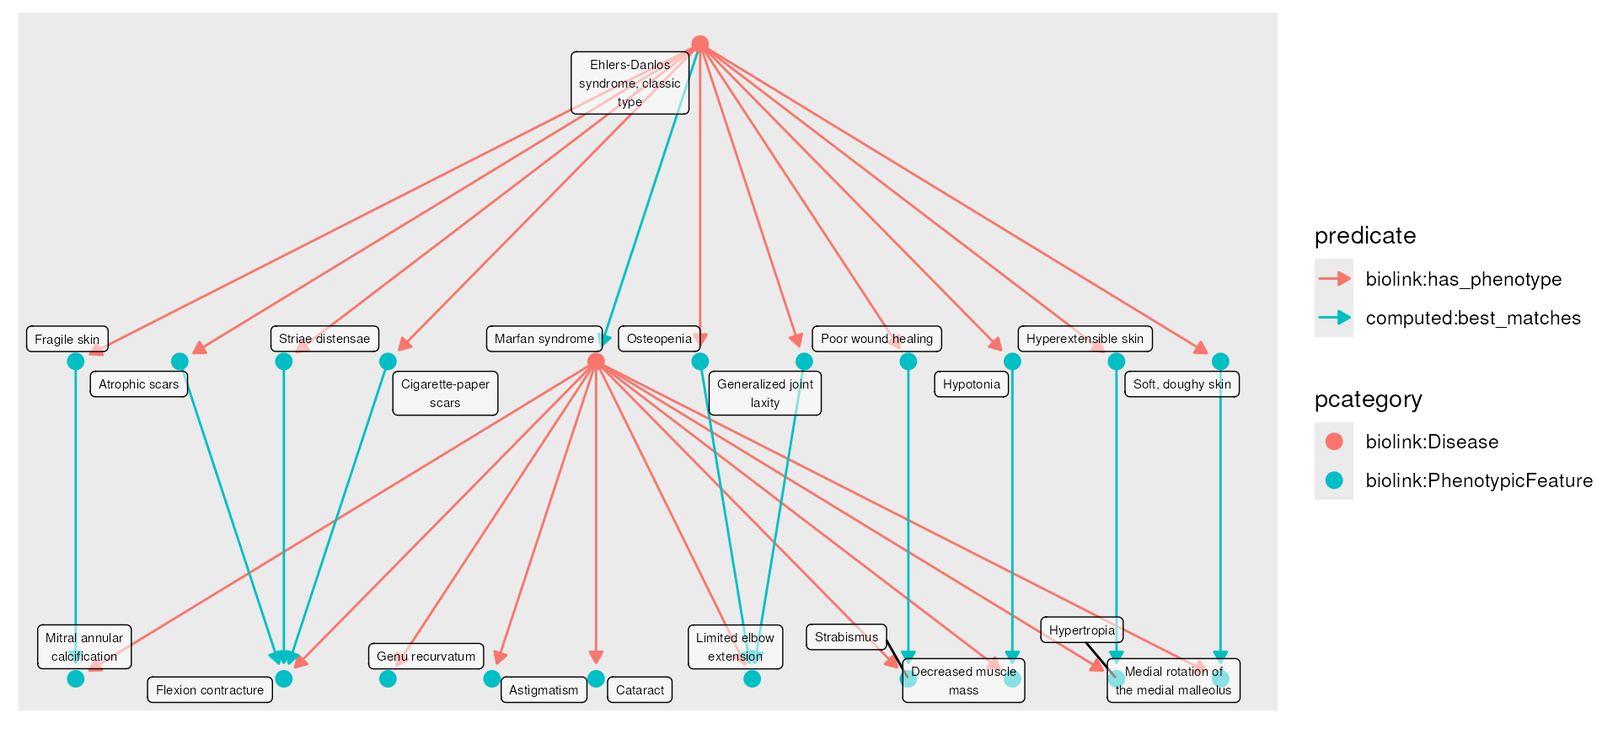
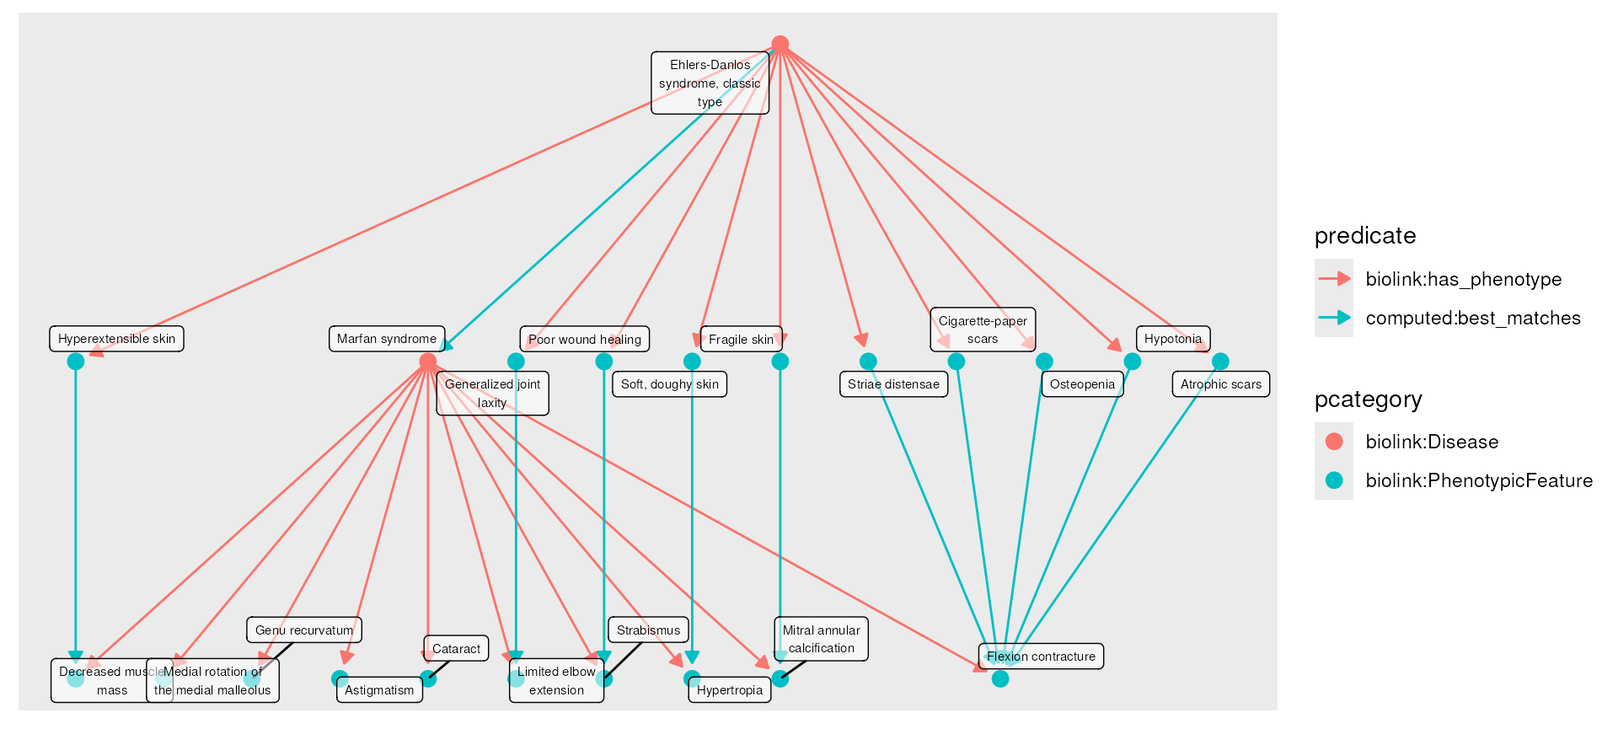
Deploying to gh-pages from @ monarch-initiative/monarchr@a0d1d48b1f71b80cf6fc3240c27e7232c704f830 🚀

Changed region(s): [[0.0, 0.0312, 0.7812, 0.9676], [0.6875, 0.5931, 0.7188, 0.6867], [0.125, 0.3746, 0.1562, 0.4058]]

diff --git a/articles/monarchr.html b/articles/monarchr.html
@@ -2690,57 +2690,7 @@ downloaded to the current working directory.</p>
 <code class="sourceCode R"><span><span class="va">filename</span> <span class="op">&lt;-</span> <span class="fu"><a href="https://rdrr.io/r/base/system.file.html" class="external-link">system.file</a></span><span class="op">(</span><span class="st">"extdata"</span>, <span class="st">"eds_marfan_kg.tar.gz"</span>, package <span class="op">=</span> <span class="st">"monarchr"</span><span class="op">)</span></span>
 <span><span class="co"># filename &lt;- "https://kghub.io/kg-obo/mondo/2024-03-04/mondo_kgx_tsv.tar.gz"</span></span>
 <span></span>
-<span><span class="va">eds_marfan</span> <span class="op">&lt;-</span> <span class="fu"><a href="../reference/file_engine.html">file_engine</a></span><span class="op">(</span><span class="va">filename</span><span class="op">)</span></span>
-<span><span class="va">eds_marfan</span></span></code></pre></div>
-<pre><code><span><span class="co">## $name</span></span>
-<span><span class="co">## [1] "file_engine"</span></span>
-<span><span class="co">## </span></span>
-<span><span class="co">## $preferences</span></span>
-<span><span class="co">## $preferences$category_priority</span></span>
-<span><span class="co">##  [1] "biolink:Disease"           "biolink:PhenotypicFeature" "biolink:Gene"              "biolink:AnatomicalEntity"  "biolink:BiologicalProcess" "biolink:Pathway"           "biolink:Cell"              "biolink:CellularComponent" "biolink:ChemicalEntity"    "biolink:Drug"             </span></span>
-<span><span class="co">## </span></span>
-<span><span class="co">## $preferences$node_property_priority</span></span>
-<span><span class="co">## [1] "id"             "pcategory"      "name"           "symbol"         "in_taxon_label" "description"    "synonym"       </span></span>
-<span><span class="co">## </span></span>
-<span><span class="co">## $preferences$edge_property_priority</span></span>
-<span><span class="co">## [1] "subject"   "predicate" "object"   </span></span>
-<span><span class="co">## </span></span>
-<span><span class="co">## </span></span>
-<span><span class="co">## $filename</span></span>
-<span><span class="co">## [1] "/__w/_temp/Library/monarchr/extdata/eds_marfan_kg.tar.gz"</span></span>
-<span><span class="co">## </span></span>
-<span><span class="co">## $graph</span></span>
-<span><span class="co">## <span style="color: #949494;"># A tbl_graph: 3000 nodes and 7148 edges</span></span></span>
-<span><span class="co"><span style="color: #949494;">## #</span></span></span>
-<span><span class="co"><span style="color: #949494;">## # A directed acyclic multigraph with 1 component</span></span></span>
-<span><span class="co"><span style="color: #949494;">## #</span></span></span>
-<span><span class="co"><span style="color: #949494;">## # Node Data: 3,000 × 16 (active)</span></span></span>
-<span><span class="co">##    id            name                                                          symbol in_taxon_label description                                                                                              synonym category iri   xref  namespace provided_by in_taxon full_name type  has_gene pcategory</span></span>
-<span><span class="co">##    <span style="color: #949494; font-style: italic;">&lt;chr&gt;</span>         <span style="color: #949494; font-style: italic;">&lt;chr&gt;</span>                                                         <span style="color: #949494; font-style: italic;">&lt;chr&gt;</span>  <span style="color: #949494; font-style: italic;">&lt;chr&gt;</span>          <span style="color: #949494; font-style: italic;">&lt;chr&gt;</span>                                                                                                    <span style="color: #949494; font-style: italic;">&lt;list&gt;</span>  <span style="color: #949494; font-style: italic;">&lt;list&gt;</span>   <span style="color: #949494; font-style: italic;">&lt;chr&gt;</span> <span style="color: #949494; font-style: italic;">&lt;lis&gt;</span> <span style="color: #949494; font-style: italic;">&lt;chr&gt;</span>     <span style="color: #949494; font-style: italic;">&lt;chr&gt;</span>       <span style="color: #949494; font-style: italic;">&lt;chr&gt;</span>    <span style="color: #949494; font-style: italic;">&lt;chr&gt;</span>     <span style="color: #949494; font-style: italic;">&lt;lis&gt;</span> <span style="color: #949494; font-style: italic;">&lt;chr&gt;</span>    <span style="color: #949494; font-style: italic;">&lt;chr&gt;</span>    </span></span>
-<span><span class="co">## <span style="color: #BCBCBC;"> 1</span> MONDO:0007947 Marfan syndrome                                               <span style="color: #BB0000;">NA</span>     <span style="color: #BB0000;">NA</span>             A disorder of the connective tissue. Connective tissue provides strength and flexibility to structures … <span style="color: #949494;">&lt;chr&gt;</span>   <span style="color: #949494;">&lt;chr&gt;</span>    http… <span style="color: #949494;">&lt;chr&gt;</span> MONDO     phenio_nod… <span style="color: #BB0000;">NA</span>       <span style="color: #BB0000;">NA</span>        <span style="color: #949494;">&lt;chr&gt;</span> <span style="color: #BB0000;">NA</span>       biolink:…</span></span>
-<span><span class="co">## <span style="color: #BCBCBC;"> 2</span> MONDO:0020066 Ehlers-Danlos syndrome                                        <span style="color: #BB0000;">NA</span>     <span style="color: #BB0000;">NA</span>             The Ehlers–Danlos syndromes (EDS) are a clinically and genetically heterogeneous group of heritable con… <span style="color: #949494;">&lt;chr&gt;</span>   <span style="color: #949494;">&lt;chr&gt;</span>    http… <span style="color: #949494;">&lt;chr&gt;</span> MONDO     phenio_nod… <span style="color: #BB0000;">NA</span>       <span style="color: #BB0000;">NA</span>        <span style="color: #949494;">&lt;chr&gt;</span> <span style="color: #BB0000;">NA</span>       biolink:…</span></span>
-<span><span class="co">## <span style="color: #BCBCBC;"> 3</span> MONDO:0009159 Ehlers-Danlos syndrome, cardiac valvular type                 <span style="color: #BB0000;">NA</span>     <span style="color: #BB0000;">NA</span>             Ehlers-Danlos syndrome, cardiac valvular type is a form of Ehlers-Danlos syndrome characterized by soft… <span style="color: #949494;">&lt;chr&gt;</span>   <span style="color: #949494;">&lt;chr&gt;</span>    http… <span style="color: #949494;">&lt;chr&gt;</span> MONDO     phenio_nod… <span style="color: #BB0000;">NA</span>       <span style="color: #BB0000;">NA</span>        <span style="color: #949494;">&lt;chr&gt;</span> <span style="color: #BB0000;">NA</span>       biolink:…</span></span>
-<span><span class="co">## <span style="color: #BCBCBC;"> 4</span> MONDO:0040501 ehlers-danlos syndrome, arthrochalasia type, 2                <span style="color: #BB0000;">NA</span>     <span style="color: #BB0000;">NA</span>             <span style="color: #BB0000;">NA</span>                                                                                                       <span style="color: #949494;">&lt;chr&gt;</span>   <span style="color: #949494;">&lt;chr&gt;</span>    http… <span style="color: #949494;">&lt;chr&gt;</span> MONDO     phenio_nod… <span style="color: #BB0000;">NA</span>       <span style="color: #BB0000;">NA</span>        <span style="color: #949494;">&lt;chr&gt;</span> <span style="color: #BB0000;">NA</span>       biolink:…</span></span>
-<span><span class="co">## <span style="color: #BCBCBC;"> 5</span> MONDO:0034022 Bethlem myopathy 2                                            <span style="color: #BB0000;">NA</span>     <span style="color: #BB0000;">NA</span>             <span style="color: #BB0000;">NA</span>                                                                                                       <span style="color: #949494;">&lt;chr&gt;</span>   <span style="color: #949494;">&lt;chr&gt;</span>    http… <span style="color: #949494;">&lt;chr&gt;</span> MONDO     phenio_nod… <span style="color: #BB0000;">NA</span>       <span style="color: #BB0000;">NA</span>        <span style="color: #949494;">&lt;chr&gt;</span> <span style="color: #BB0000;">NA</span>       biolink:…</span></span>
-<span><span class="co">## <span style="color: #BCBCBC;"> 6</span> MONDO:0016002 Ehlers-Danlos syndrome, kyphoscoliotic type 1                 <span style="color: #BB0000;">NA</span>     <span style="color: #BB0000;">NA</span>             A form of Ehlers-Danlos syndrome characterized by severe hypotonia and kyphoscoliosis at birth, general… <span style="color: #949494;">&lt;chr&gt;</span>   <span style="color: #949494;">&lt;chr&gt;</span>    http… <span style="color: #949494;">&lt;chr&gt;</span> MONDO     phenio_nod… <span style="color: #BB0000;">NA</span>       <span style="color: #BB0000;">NA</span>        <span style="color: #949494;">&lt;chr&gt;</span> <span style="color: #BB0000;">NA</span>       biolink:…</span></span>
-<span><span class="co">## <span style="color: #BCBCBC;"> 7</span> MONDO:0009161 Ehlers-Danlos syndrome, dermatosparaxis type                  <span style="color: #BB0000;">NA</span>     <span style="color: #BB0000;">NA</span>             A form of Ehlers-Danlos syndrome (EDS) characterized by extreme skin fragility and laxity, a prominent … <span style="color: #949494;">&lt;chr&gt;</span>   <span style="color: #949494;">&lt;chr&gt;</span>    http… <span style="color: #949494;">&lt;chr&gt;</span> MONDO     phenio_nod… <span style="color: #BB0000;">NA</span>       <span style="color: #BB0000;">NA</span>        <span style="color: #949494;">&lt;chr&gt;</span> <span style="color: #BB0000;">NA</span>       biolink:…</span></span>
-<span><span class="co">## <span style="color: #BCBCBC;"> 8</span> MONDO:0009242 brittle cornea syndrome                                       <span style="color: #BB0000;">NA</span>     <span style="color: #BB0000;">NA</span>             Brittle cornea syndrome is a form of Ehlers-Danlos syndrome characterized by a severe ocular manifestat… <span style="color: #949494;">&lt;chr&gt;</span>   <span style="color: #949494;">&lt;chr&gt;</span>    http… <span style="color: #949494;">&lt;chr&gt;</span> MONDO     phenio_nod… <span style="color: #BB0000;">NA</span>       <span style="color: #BB0000;">NA</span>        <span style="color: #949494;">&lt;chr&gt;</span> <span style="color: #BB0000;">NA</span>       biolink:…</span></span>
-<span><span class="co">## <span style="color: #BCBCBC;"> 9</span> MONDO:0024543 brittle cornea syndrome 1                                     <span style="color: #BB0000;">NA</span>     <span style="color: #BB0000;">NA</span>             Any brittle cornea syndrome in which the cause of the disease is a mutation in the ZNF469 gene.          <span style="color: #949494;">&lt;chr&gt;</span>   <span style="color: #949494;">&lt;chr&gt;</span>    http… <span style="color: #949494;">&lt;chr&gt;</span> MONDO     phenio_nod… <span style="color: #BB0000;">NA</span>       <span style="color: #BB0000;">NA</span>        <span style="color: #949494;">&lt;chr&gt;</span> <span style="color: #BB0000;">NA</span>       biolink:…</span></span>
-<span><span class="co">## <span style="color: #BCBCBC;">10</span> MONDO:0030854 combined osteogenesis imperfecta and Ehlers-Danlos syndrome 1 <span style="color: #BB0000;">NA</span>     <span style="color: #BB0000;">NA</span>             <span style="color: #BB0000;">NA</span>                                                                                                       <span style="color: #949494;">&lt;chr&gt;</span>   <span style="color: #949494;">&lt;chr&gt;</span>    http… <span style="color: #949494;">&lt;chr&gt;</span> MONDO     phenio_nod… <span style="color: #BB0000;">NA</span>       <span style="color: #BB0000;">NA</span>        <span style="color: #949494;">&lt;chr&gt;</span> <span style="color: #BB0000;">NA</span>       biolink:…</span></span>
-<span><span class="co">## <span style="color: #949494;"># ℹ 2,990 more rows</span></span></span>
-<span><span class="co">## <span style="color: #949494;">#</span></span></span>
-<span><span class="co"><span style="color: #949494;">## # Edge Data: 7,148 × 25</span></span></span>
-<span><span class="co">##    from    to subject   predicate object agent_type knowledge_level knowledge_source aggregator_knowledge…¹ primary_knowledge_so…² provided_by id    category original_object original_subject frequency_qualifier has_evidence has_total has_quotient has_count has_percentage onset_qualifier publications</span></span>
-<span><span class="co">##   <span style="color: #949494; font-style: italic;">&lt;int&gt;</span> <span style="color: #949494; font-style: italic;">&lt;int&gt;</span> <span style="color: #949494; font-style: italic;">&lt;chr&gt;</span>     <span style="color: #949494; font-style: italic;">&lt;chr&gt;</span>     <span style="color: #949494; font-style: italic;">&lt;chr&gt;</span>  <span style="color: #949494; font-style: italic;">&lt;chr&gt;</span>      <span style="color: #949494; font-style: italic;">&lt;chr&gt;</span>           <span style="color: #949494; font-style: italic;">&lt;chr&gt;</span>            <span style="color: #949494; font-style: italic;">&lt;chr&gt;</span>                  <span style="color: #949494; font-style: italic;">&lt;chr&gt;</span>                  <span style="color: #949494; font-style: italic;">&lt;chr&gt;</span>       <span style="color: #949494; font-style: italic;">&lt;chr&gt;</span> <span style="color: #949494; font-style: italic;">&lt;chr&gt;</span>    <span style="color: #949494; font-style: italic;">&lt;chr&gt;</span>           <span style="color: #949494; font-style: italic;">&lt;chr&gt;</span>            <span style="color: #949494; font-style: italic;">&lt;chr&gt;</span>               <span style="color: #949494; font-style: italic;">&lt;chr&gt;</span>            <span style="color: #949494; font-style: italic;">&lt;dbl&gt;</span>        <span style="color: #949494; font-style: italic;">&lt;dbl&gt;</span>     <span style="color: #949494; font-style: italic;">&lt;dbl&gt;</span>          <span style="color: #949494; font-style: italic;">&lt;dbl&gt;</span> <span style="color: #949494; font-style: italic;">&lt;chr&gt;</span>           <span style="color: #949494; font-style: italic;">&lt;chr&gt;</span>       </span></span>
-<span><span class="co">## <span style="color: #BCBCBC;">1</span>     3     2 MONDO:00… biolink:… MONDO… not_provi… not_provided    monarch-kg_edge… infores:monarchinitia… infores:mondo          phenio_edg… urn:… biolink… <span style="color: #BB0000;">NA</span>              <span style="color: #BB0000;">NA</span>               <span style="color: #BB0000;">NA</span>                  <span style="color: #BB0000;">NA</span>                  <span style="color: #BB0000;">NA</span>           <span style="color: #BB0000;">NA</span>        <span style="color: #BB0000;">NA</span>             <span style="color: #BB0000;">NA</span> <span style="color: #BB0000;">NA</span>              <span style="color: #BB0000;">NA</span>          </span></span>
-<span><span class="co">## <span style="color: #BCBCBC;">2</span>     4     2 MONDO:00… biolink:… MONDO… not_provi… not_provided    monarch-kg_edge… infores:monarchinitia… infores:mondo          phenio_edg… urn:… biolink… <span style="color: #BB0000;">NA</span>              <span style="color: #BB0000;">NA</span>               <span style="color: #BB0000;">NA</span>                  <span style="color: #BB0000;">NA</span>                  <span style="color: #BB0000;">NA</span>           <span style="color: #BB0000;">NA</span>        <span style="color: #BB0000;">NA</span>             <span style="color: #BB0000;">NA</span> <span style="color: #BB0000;">NA</span>              <span style="color: #BB0000;">NA</span>          </span></span>
-<span><span class="co">## <span style="color: #BCBCBC;">3</span>     5     2 MONDO:00… biolink:… MONDO… not_provi… not_provided    monarch-kg_edge… infores:monarchinitia… infores:mondo          phenio_edg… urn:… biolink… <span style="color: #BB0000;">NA</span>              <span style="color: #BB0000;">NA</span>               <span style="color: #BB0000;">NA</span>                  <span style="color: #BB0000;">NA</span>                  <span style="color: #BB0000;">NA</span>           <span style="color: #BB0000;">NA</span>        <span style="color: #BB0000;">NA</span>             <span style="color: #BB0000;">NA</span> <span style="color: #BB0000;">NA</span>              <span style="color: #BB0000;">NA</span>          </span></span>
-<span><span class="co">## <span style="color: #949494;"># ℹ 7,145 more rows</span></span></span>
-<span><span class="co">## <span style="color: #949494;"># ℹ abbreviated names: ¹aggregator_knowledge_source, ²primary_knowledge_source</span></span></span>
-<span><span class="co">## <span style="color: #949494;"># ℹ 2 more variables: qualifiers &lt;chr&gt;, original_predicate &lt;chr&gt;</span></span></span>
-<span><span class="co">## </span></span>
-<span><span class="co">## attr(,"class")</span></span>
-<span><span class="co">## [1] "file_engine" "base_engine" "list"</span></span></code></pre>
+<span><span class="va">eds_marfan</span> <span class="op">&lt;-</span> <span class="fu"><a href="../reference/file_engine.html">file_engine</a></span><span class="op">(</span><span class="va">filename</span><span class="op">)</span></span></code></pre></div>
 </div>
 <div class="section level2">
 <h2 id="fetching-nodes">Fetching Nodes<a class="anchor" aria-label="anchor" href="#fetching-nodes"></a>
@@ -2749,7 +2699,7 @@ downloaded to the current working directory.</p>
 nodes by specified criteria. It returns a <code>tidygraph</code>-based
 graph, but only nodes, not any edges that may connect them. These can be
 specified as a set of IDs:</p>
-<div class="sourceCode" id="cb10"><pre class="downlit sourceCode r">
+<div class="sourceCode" id="cb9"><pre class="downlit sourceCode r">
 <code class="sourceCode R"><span><span class="va">g</span> <span class="op">&lt;-</span> <span class="va">monarch</span> <span class="op">|&gt;</span></span>
 <span>    <span class="fu"><a href="../reference/fetch_nodes.html">fetch_nodes</a></span><span class="op">(</span>query_ids <span class="op">=</span> <span class="fu"><a href="https://rdrr.io/r/base/c.html" class="external-link">c</a></span><span class="op">(</span><span class="st">"MONDO:0009061"</span>, <span class="st">"HGNC:1884"</span><span class="op">)</span><span class="op">)</span></span>
 <span></span>
@@ -2926,7 +2876,7 @@ Showing 0 of 0 edges:
 all of the nodes where <code>in_taxon_label</code> equals
 <code>"Homo sapiens"</code>. For demonstration purposes, we’ll limit the
 number of results to 20 (ordered by node ID).</p>
-<div class="sourceCode" id="cb11"><pre class="downlit sourceCode r">
+<div class="sourceCode" id="cb10"><pre class="downlit sourceCode r">
 <code class="sourceCode R"><span><span class="va">h_sapiens_nodes</span> <span class="op">&lt;-</span> <span class="va">monarch</span> <span class="op">|&gt;</span></span>
 <span>    <span class="fu"><a href="../reference/fetch_nodes.html">fetch_nodes</a></span><span class="op">(</span><span class="va">in_taxon_label</span> <span class="op">==</span> <span class="st">"Homo sapiens"</span>, limit <span class="op">=</span> <span class="fl">20</span><span class="op">)</span></span>
 <span><span class="va">h_sapiens_nodes</span></span></code></pre></div>
@@ -3628,7 +3578,7 @@ properties are multi-valued, we provide a special <code>%in_list%</code>
 operator to allow exact match against entries. Here we fetch all the
 <em>Homo sapiens</em> Genes, using <code>%in_list%</code> to account for
 the multi-valued nature of node <code>category</code>.<a href="#fn1" class="footnote-ref" id="fnref1"><sup>1</sup></a></p>
-<div class="sourceCode" id="cb12"><pre class="downlit sourceCode r">
+<div class="sourceCode" id="cb11"><pre class="downlit sourceCode r">
 <code class="sourceCode R"><span><span class="va">human_genes</span> <span class="op">&lt;-</span> <span class="va">monarch</span> <span class="op">|&gt;</span></span>
 <span>    <span class="fu"><a href="../reference/fetch_nodes.html">fetch_nodes</a></span><span class="op">(</span><span class="va">in_taxon_label</span> <span class="op">==</span> <span class="st">"Homo sapiens"</span> <span class="op">&amp;</span> <span class="st">"biolink:Gene"</span> <span class="op"><a href="../reference/grapes-in_list-grapes.html">%in_list%</a></span> <span class="va">category</span>,</span>
 <span>                            limit <span class="op">=</span> <span class="fl">20</span><span class="op">)</span></span>
@@ -4574,7 +4524,7 @@ Showing 0 of 0 edges:
 <p>A convenience <code>%~%</code> operator provides regular-expression
 matching against node properties (but not multi-valued ones like
 <code>category</code>).</p>
-<div class="sourceCode" id="cb13"><pre class="downlit sourceCode r">
+<div class="sourceCode" id="cb12"><pre class="downlit sourceCode r">
 <code class="sourceCode R"><span><span class="va">fibrosis_disease_matches</span> <span class="op">&lt;-</span> <span class="va">monarch</span> <span class="op">|&gt;</span></span>
 <span>    <span class="fu"><a href="../reference/fetch_nodes.html">fetch_nodes</a></span><span class="op">(</span><span class="va">description</span> <span class="op"><a href="../reference/grapes-twiddle-grapes.html">%~%</a></span> <span class="st">".*[fF]ibrosis.*"</span> <span class="op">&amp;</span> <span class="st">"biolink:Disease"</span> <span class="op"><a href="../reference/grapes-in_list-grapes.html">%in_list%</a></span> <span class="va">category</span>,</span>
 <span>                            limit <span class="op">=</span> <span class="fl">20</span><span class="op">)</span></span>
@@ -5466,7 +5416,7 @@ take the resulting graph (which contains both disease and gene nodes),
 and fetch the neighborhood of nodes with category
 <code>biolink:PhenotypicFeature</code>. Since there are many such
 results, we add a <code>limit</code> for the visualization.<a href="#fn2" class="footnote-ref" id="fnref2"><sup>2</sup></a></p>
-<div class="sourceCode" id="cb14"><pre class="downlit sourceCode r">
+<div class="sourceCode" id="cb13"><pre class="downlit sourceCode r">
 <code class="sourceCode R"><span><span class="co"># MONDO:0018982, MONDO:0011871: Neimann-Pick type B and C</span></span>
 <span></span>
 <span><span class="va">g</span> <span class="op">&lt;-</span> <span class="va">monarch</span> <span class="op">|&gt;</span></span>
@@ -5507,7 +5457,7 @@ subtypes, and then considering the collective ancestry of those nodes in
 the KG. Not all ancestors are diseases
 (e.g. <code>biolink:Entity</code>), so we restrict the result set of the
 second expansion.</p>
-<div class="sourceCode" id="cb15"><pre class="downlit sourceCode r">
+<div class="sourceCode" id="cb14"><pre class="downlit sourceCode r">
 <code class="sourceCode R"><span><span class="co"># MONDO:0001982 Niemann-Pick Disease (13 subtypes)</span></span>
 <span></span>
 <span><span class="va">hierarchy</span> <span class="op">&lt;-</span> <span class="va">monarch</span> <span class="op">|&gt;</span></span>
@@ -5530,7 +5480,7 @@ specific to the Monarch Initiatives’ API services. The first of these is
 <code><a href="../reference/monarch_search.html">monarch_search()</a></code>, which uses the same search API as the
 Monarch <a href="https://monarchinitiative.org" class="external-link">website</a>, returning a
 graph with matching nodes backed by a <code><a href="../reference/monarch_engine.html">monarch_engine()</a></code>.</p>
-<div class="sourceCode" id="cb16"><pre class="downlit sourceCode r">
+<div class="sourceCode" id="cb15"><pre class="downlit sourceCode r">
 <code class="sourceCode R"><span><span class="va">cf_hits</span> <span class="op">&lt;-</span> <span class="fu"><a href="../reference/monarch_search.html">monarch_search</a></span><span class="op">(</span><span class="st">"Cystic fibrosis"</span>, category <span class="op">=</span> <span class="st">"biolink:Disease"</span>, limit <span class="op">=</span> <span class="fl">5</span><span class="op">)</span></span>
 <span></span>
 <span><span class="va">cf_hits</span></span></code></pre></div>
@@ -5775,7 +5725,7 @@ phenotypes of Ehlers-Danlos syndrome, classic type
 (<code>"MONDO:0007947"</code>), and we find the best matching Marfan
 phenotype for each EDS phenotype. The result is returned as a graph,
 containing only computed <code>"computed:best_matches"</code> edges:</p>
-<div class="sourceCode" id="cb17"><pre class="downlit sourceCode r">
+<div class="sourceCode" id="cb16"><pre class="downlit sourceCode r">
 <code class="sourceCode R"><span><span class="va">eds_phenos</span> <span class="op">&lt;-</span> <span class="va">monarch</span> <span class="op">|&gt;</span></span>
 <span>    <span class="fu"><a href="../reference/fetch_nodes.html">fetch_nodes</a></span><span class="op">(</span>query_ids <span class="op">=</span> <span class="st">"MONDO:0007522"</span><span class="op">)</span> <span class="op">|&gt;</span></span>
 <span>    <span class="fu"><a href="../reference/expand.html">expand</a></span><span class="op">(</span>predicates <span class="op">=</span> <span class="st">"biolink:has_phenotype"</span>, limit <span class="op">=</span> <span class="fl">10</span><span class="op">)</span></span>
@@ -5789,10 +5739,10 @@ containing only computed <code>"computed:best_matches"</code> edges:</p>
 <span><span class="fu"><a href="https://rdrr.io/r/graphics/plot.default.html" class="external-link">plot</a></span><span class="op">(</span><span class="va">sim</span><span class="op">)</span></span>
 <span><span class="va">sim</span></span></code></pre></div>
 <p><img src="monarchr_files/figure-html/unnamed-chunk-13-1.png" width="960"></p>
-<pre>Graph with 19 nodes and 11 edges. Expand sections below for details.</pre>
+<pre>Graph with 18 nodes and 11 edges. Expand sections below for details.</pre>
 <details><summary><b>Node Data</b>
 </summary><p>
-Showing 19 of 19 nodes:
+Showing 18 of 18 nodes:
 </p>
 <div style="font-size: 0.8em; max-height: 400px;overflow-y: auto;border-left: 1px solid #ddd;border-right:  1px solid #ddd;border-bottom: 1px solid #ddd;">
 <table class="table table table-striped table-hover table-condensed" style="margin-left: auto; margin-right: auto;">
@@ -6514,40 +6464,6 @@ NA
 “phenio_nodes”
 </td>
 </tr>
-<tr>
-<td style="text-align:left;">
-“HP:0008132”
-</td>
-<td style="text-align:left;">
-“biolink:PhenotypicFeature”
-</td>
-<td style="text-align:left;">
-“Medial rotation of the medial malleolus”
-</td>
-<td style="text-align:left;min-width: 300px; ">
-NA
-</td>
-<td style="text-align:left;min-width: 300px; ">
-NA
-</td>
-<td style="text-align:left;">
-c(“biolink:BiologicalEntity”, “biolink:DiseaseOrPhenotypicFeature”,
-“biolink:Entity”, “biolink:NamedThing”, “biolink:PhenotypicFeature”,
-“biolink:ThingWithTaxon”)
-</td>
-<td style="text-align:left;">
-“<a href="http://purl.obolibrary.org/obo/HP_0008132" class="external-link uri">http://purl.obolibrary.org/obo/HP_0008132</a>”
-</td>
-<td style="text-align:left;">
-“UMLS:C3805726”
-</td>
-<td style="text-align:left;">
-“HP”
-</td>
-<td style="text-align:left;">
-“phenio_nodes”
-</td>
-</tr>
 </tbody>
 </table>
 </div>
@@ -6589,7 +6505,7 @@ ancestor_id
 9
 </td>
 <td style="text-align:left;">
-13
+16
 </td>
 <td style="text-align:left;">
 “HP:0000938”
@@ -6598,7 +6514,7 @@ ancestor_id
 “computed:best_matches”
 </td>
 <td style="text-align:left;">
-“HP:0001377”
+“HP:0001371”
 </td>
 <td style="text-align:left;">
 “ancestor_information_content”
@@ -6615,7 +6531,7 @@ ancestor_id
 2
 </td>
 <td style="text-align:left;">
-18
+17
 </td>
 <td style="text-align:left;">
 “HP:0000974”
@@ -6624,7 +6540,7 @@ ancestor_id
 “computed:best_matches”
 </td>
 <td style="text-align:left;">
-“HP:0025586”
+“HP:0003199”
 </td>
 <td style="text-align:left;">
 “ancestor_information_content”
@@ -6641,7 +6557,7 @@ ancestor_id
 3
 </td>
 <td style="text-align:left;">
-19
+18
 </td>
 <td style="text-align:left;">
 “HP:0001027”
@@ -6650,7 +6566,7 @@ ancestor_id
 “computed:best_matches”
 </td>
 <td style="text-align:left;">
-“HP:0008132”
+“HP:0025586”
 </td>
 <td style="text-align:left;">
 “ancestor_information_content”
@@ -6797,7 +6713,7 @@ ancestor_id
 11
 </td>
 <td style="text-align:left;">
-17
+16
 </td>
 <td style="text-align:left;">
 “HP:0001252”
@@ -6806,7 +6722,7 @@ ancestor_id
 “computed:best_matches”
 </td>
 <td style="text-align:left;">
-“HP:0003199”
+“HP:0001371”
 </td>
 <td style="text-align:left;">
 “ancestor_information_content”
@@ -6880,7 +6796,7 @@ metric, similarity score, and ID of the least common ancestor relating
 the nodes.</p>
 <p>We can use <code>tidygraph</code>’s <code><a href="https://tidygraph.data-imaginist.com/reference/graph_join.html" class="external-link">graph_join()</a></code> to see
 this result in the context of the original query and target graphs.</p>
-<div class="sourceCode" id="cb18"><pre class="downlit sourceCode r">
+<div class="sourceCode" id="cb17"><pre class="downlit sourceCode r">
 <code class="sourceCode R"><span><span class="va">eds_phenos</span> <span class="op">|&gt;</span></span>
 <span>    <span class="fu"><a href="https://tidygraph.data-imaginist.com/reference/graph_join.html" class="external-link">graph_join</a></span><span class="op">(</span><span class="va">marfan_phenos</span><span class="op">)</span> <span class="op">|&gt;</span></span>
 <span>    <span class="fu"><a href="https://tidygraph.data-imaginist.com/reference/graph_join.html" class="external-link">graph_join</a></span><span class="op">(</span><span class="va">sim</span><span class="op">)</span> <span class="op">|&gt;</span></span>

diff --git a/reference/monarch_semsim.html b/reference/monarch_semsim.html
@@ -148,11 +148,11 @@ the best matches from the second graph to the first graph.</p>
 <span class="r-msg co"><span class="r-pr">#&gt;</span> Joining with `by = join_by(id, pcategory, name, description, synonym, category,</span>
 <span class="r-msg co"><span class="r-pr">#&gt;</span> iri, xref, namespace, provided_by)`</span>
 <span class="r-in"><span><span class="fu"><a href="https://rdrr.io/r/base/print.html" class="external-link">print</a></span><span class="op">(</span><span class="va">sim</span><span class="op">)</span></span></span>
-<span class="r-out co"><span class="r-pr">#&gt;</span> <span style="color: #949494;"># A tbl_graph: 134 nodes and 106 edges</span></span>
+<span class="r-out co"><span class="r-pr">#&gt;</span> <span style="color: #949494;"># A tbl_graph: 135 nodes and 106 edges</span></span>
 <span class="r-out co"><span class="r-pr">#&gt;</span> <span style="color: #949494;">#</span></span>
-<span class="r-out co"><span class="r-pr">#&gt;</span> <span style="color: #949494;"># A directed multigraph with 40 components</span></span>
+<span class="r-out co"><span class="r-pr">#&gt;</span> <span style="color: #949494;"># A directed multigraph with 41 components</span></span>
 <span class="r-out co"><span class="r-pr">#&gt;</span> <span style="color: #949494;">#</span></span>
-<span class="r-out co"><span class="r-pr">#&gt;</span> <span style="color: #949494;"># Node Data: 134 × 10 (active)</span></span>
+<span class="r-out co"><span class="r-pr">#&gt;</span> <span style="color: #949494;"># Node Data: 135 × 10 (active)</span></span>
 <span class="r-out co"><span class="r-pr">#&gt;</span>    id         pcategory name  description synonym category iri   xref  namespace</span>
 <span class="r-out co"><span class="r-pr">#&gt;</span>    <span style="color: #949494; font-style: italic;">&lt;chr&gt;</span>      <span style="color: #949494; font-style: italic;">&lt;chr&gt;</span>     <span style="color: #949494; font-style: italic;">&lt;chr&gt;</span> <span style="color: #949494; font-style: italic;">&lt;chr&gt;</span>       <span style="color: #949494; font-style: italic;">&lt;named&gt;</span> <span style="color: #949494; font-style: italic;">&lt;list&gt;</span>   <span style="color: #949494; font-style: italic;">&lt;chr&gt;</span> <span style="color: #949494; font-style: italic;">&lt;nam&gt;</span> <span style="color: #949494; font-style: italic;">&lt;chr&gt;</span>    </span>
 <span class="r-out co"><span class="r-pr">#&gt;</span> <span style="color: #BCBCBC;"> 1</span> MONDO:000… biolink:… Marf… A disorder… <span style="color: #949494;">&lt;chr&gt;</span>   <span style="color: #949494;">&lt;chr&gt;</span>    http… <span style="color: #949494;">&lt;chr&gt;</span> MONDO    </span>
@@ -165,15 +165,15 @@ the best matches from the second graph to the first graph.</p>
 <span class="r-out co"><span class="r-pr">#&gt;</span> <span style="color: #BCBCBC;"> 8</span> HP:0025586 biolink:… Hype… A type of … <span style="color: #949494;">&lt;lgl&gt;</span>   <span style="color: #949494;">&lt;chr&gt;</span>    http… <span style="color: #949494;">&lt;lgl&gt;</span> HP       </span>
 <span class="r-out co"><span class="r-pr">#&gt;</span> <span style="color: #BCBCBC;"> 9</span> HP:0000518 biolink:… Cata… A cataract… <span style="color: #949494;">&lt;chr&gt;</span>   <span style="color: #949494;">&lt;chr&gt;</span>    http… <span style="color: #949494;">&lt;chr&gt;</span> HP       </span>
 <span class="r-out co"><span class="r-pr">#&gt;</span> <span style="color: #BCBCBC;">10</span> HP:0008132 biolink:… Medi… <span style="color: #BB0000;">NA</span>          <span style="color: #949494;">&lt;lgl&gt;</span>   <span style="color: #949494;">&lt;chr&gt;</span>    http… <span style="color: #949494;">&lt;chr&gt;</span> HP       </span>
-<span class="r-out co"><span class="r-pr">#&gt;</span> <span style="color: #949494;"># ℹ 124 more rows</span></span>
+<span class="r-out co"><span class="r-pr">#&gt;</span> <span style="color: #949494;"># ℹ 125 more rows</span></span>
 <span class="r-out co"><span class="r-pr">#&gt;</span> <span style="color: #949494;"># ℹ 1 more variable: provided_by &lt;named list&gt;</span></span>
 <span class="r-out co"><span class="r-pr">#&gt;</span> <span style="color: #949494;">#</span></span>
 <span class="r-out co"><span class="r-pr">#&gt;</span> <span style="color: #949494;"># Edge Data: 106 × 8</span></span>
 <span class="r-out co"><span class="r-pr">#&gt;</span>    from    to subject    predicate             object   metric score ancestor_id</span>
 <span class="r-out co"><span class="r-pr">#&gt;</span>   <span style="color: #949494; font-style: italic;">&lt;int&gt;</span> <span style="color: #949494; font-style: italic;">&lt;int&gt;</span> <span style="color: #949494; font-style: italic;">&lt;chr&gt;</span>      <span style="color: #949494; font-style: italic;">&lt;chr&gt;</span>                 <span style="color: #949494; font-style: italic;">&lt;chr&gt;</span>    <span style="color: #949494; font-style: italic;">&lt;chr&gt;</span>  <span style="color: #949494; font-style: italic;">&lt;dbl&gt;</span> <span style="color: #949494; font-style: italic;">&lt;chr&gt;</span>      </span>
-<span class="r-out co"><span class="r-pr">#&gt;</span> <span style="color: #BCBCBC;">1</span>   106   113 HP:0000006 computed:best_matches HP:0000… ances…  4.10 HP:0000001 </span>
+<span class="r-out co"><span class="r-pr">#&gt;</span> <span style="color: #BCBCBC;">1</span>   106   135 HP:0000006 computed:best_matches HP:0002… ances…  4.10 HP:0000001 </span>
 <span class="r-out co"><span class="r-pr">#&gt;</span> <span style="color: #BCBCBC;">2</span>    83    83 HP:0000023 computed:best_matches HP:0000… ances… 18.2  HP:0000023 </span>
-<span class="r-out co"><span class="r-pr">#&gt;</span> <span style="color: #BCBCBC;">3</span>    23   114 HP:0000098 computed:best_matches HP:0000… ances…  5.96 UPHENO:006…</span>
+<span class="r-out co"><span class="r-pr">#&gt;</span> <span style="color: #BCBCBC;">3</span>    23   117 HP:0000098 computed:best_matches HP:0000… ances…  5.96 UPHENO:006…</span>
 <span class="r-out co"><span class="r-pr">#&gt;</span> <span style="color: #949494;"># ℹ 103 more rows</span></span>
 <span class="r-in"><span></span></span>
 <span class="r-in"><span><span class="co"># also inclue the unmatched targets</span></span></span>
@@ -204,7 +204,7 @@ the best matches from the second graph to the first graph.</p>
 <span class="r-out co"><span class="r-pr">#&gt;</span> <span style="color: #949494;"># Edge Data: 106 × 8</span></span>
 <span class="r-out co"><span class="r-pr">#&gt;</span>    from    to subject    predicate             object   metric score ancestor_id</span>
 <span class="r-out co"><span class="r-pr">#&gt;</span>   <span style="color: #949494; font-style: italic;">&lt;int&gt;</span> <span style="color: #949494; font-style: italic;">&lt;int&gt;</span> <span style="color: #949494; font-style: italic;">&lt;chr&gt;</span>      <span style="color: #949494; font-style: italic;">&lt;chr&gt;</span>                 <span style="color: #949494; font-style: italic;">&lt;chr&gt;</span>    <span style="color: #949494; font-style: italic;">&lt;chr&gt;</span>  <span style="color: #949494; font-style: italic;">&lt;dbl&gt;</span> <span style="color: #949494; font-style: italic;">&lt;chr&gt;</span>      </span>
-<span class="r-out co"><span class="r-pr">#&gt;</span> <span style="color: #BCBCBC;">1</span>   106   144 HP:0000006 computed:best_matches HP:0003… ances…  4.10 HP:0000001 </span>
+<span class="r-out co"><span class="r-pr">#&gt;</span> <span style="color: #BCBCBC;">1</span>   106   151 HP:0000006 computed:best_matches HP:0010… ances…  4.10 HP:0000001 </span>
 <span class="r-out co"><span class="r-pr">#&gt;</span> <span style="color: #BCBCBC;">2</span>    83    83 HP:0000023 computed:best_matches HP:0000… ances… 18.2  HP:0000023 </span>
 <span class="r-out co"><span class="r-pr">#&gt;</span> <span style="color: #BCBCBC;">3</span>    23   125 HP:0000098 computed:best_matches HP:0000… ances…  5.96 UPHENO:006…</span>
 <span class="r-out co"><span class="r-pr">#&gt;</span> <span style="color: #949494;"># ℹ 103 more rows</span></span>
@@ -216,7 +216,7 @@ the best matches from the second graph to the first graph.</p>
 <span class="r-in"><span><span class="fu"><a href="https://rdrr.io/r/base/print.html" class="external-link">print</a></span><span class="op">(</span><span class="va">sim</span><span class="op">)</span></span></span>
 <span class="r-out co"><span class="r-pr">#&gt;</span> <span style="color: #949494;"># A tbl_graph: 161 nodes and 173 edges</span></span>
 <span class="r-out co"><span class="r-pr">#&gt;</span> <span style="color: #949494;">#</span></span>
-<span class="r-out co"><span class="r-pr">#&gt;</span> <span style="color: #949494;"># A directed multigraph with 27 components</span></span>
+<span class="r-out co"><span class="r-pr">#&gt;</span> <span style="color: #949494;"># A directed multigraph with 28 components</span></span>
 <span class="r-out co"><span class="r-pr">#&gt;</span> <span style="color: #949494;">#</span></span>
 <span class="r-out co"><span class="r-pr">#&gt;</span> <span style="color: #949494;"># Node Data: 161 × 10 (active)</span></span>
 <span class="r-out co"><span class="r-pr">#&gt;</span>    id         pcategory name  description synonym category iri   xref  namespace</span>
@@ -237,7 +237,7 @@ the best matches from the second graph to the first graph.</p>
 <span class="r-out co"><span class="r-pr">#&gt;</span> <span style="color: #949494;"># Edge Data: 173 × 8</span></span>
 <span class="r-out co"><span class="r-pr">#&gt;</span>    from    to subject    predicate             object   metric score ancestor_id</span>
 <span class="r-out co"><span class="r-pr">#&gt;</span>   <span style="color: #949494; font-style: italic;">&lt;int&gt;</span> <span style="color: #949494; font-style: italic;">&lt;int&gt;</span> <span style="color: #949494; font-style: italic;">&lt;chr&gt;</span>      <span style="color: #949494; font-style: italic;">&lt;chr&gt;</span>                 <span style="color: #949494; font-style: italic;">&lt;chr&gt;</span>    <span style="color: #949494; font-style: italic;">&lt;chr&gt;</span>  <span style="color: #949494; font-style: italic;">&lt;dbl&gt;</span> <span style="color: #949494; font-style: italic;">&lt;chr&gt;</span>      </span>
-<span class="r-out co"><span class="r-pr">#&gt;</span> <span style="color: #BCBCBC;">1</span>   106   145 HP:0000006 computed:best_matches HP:0003… ances…  4.10 HP:0000001 </span>
+<span class="r-out co"><span class="r-pr">#&gt;</span> <span style="color: #BCBCBC;">1</span>   106   124 HP:0000006 computed:best_matches HP:0000… ances…  4.10 HP:0000001 </span>
 <span class="r-out co"><span class="r-pr">#&gt;</span> <span style="color: #BCBCBC;">2</span>    83    83 HP:0000023 computed:best_matches HP:0000… ances… 18.2  HP:0000023 </span>
 <span class="r-out co"><span class="r-pr">#&gt;</span> <span style="color: #BCBCBC;">3</span>    23   125 HP:0000098 computed:best_matches HP:0000… ances…  5.96 UPHENO:006…</span>
 <span class="r-out co"><span class="r-pr">#&gt;</span> <span style="color: #949494;"># ℹ 170 more rows</span></span>
